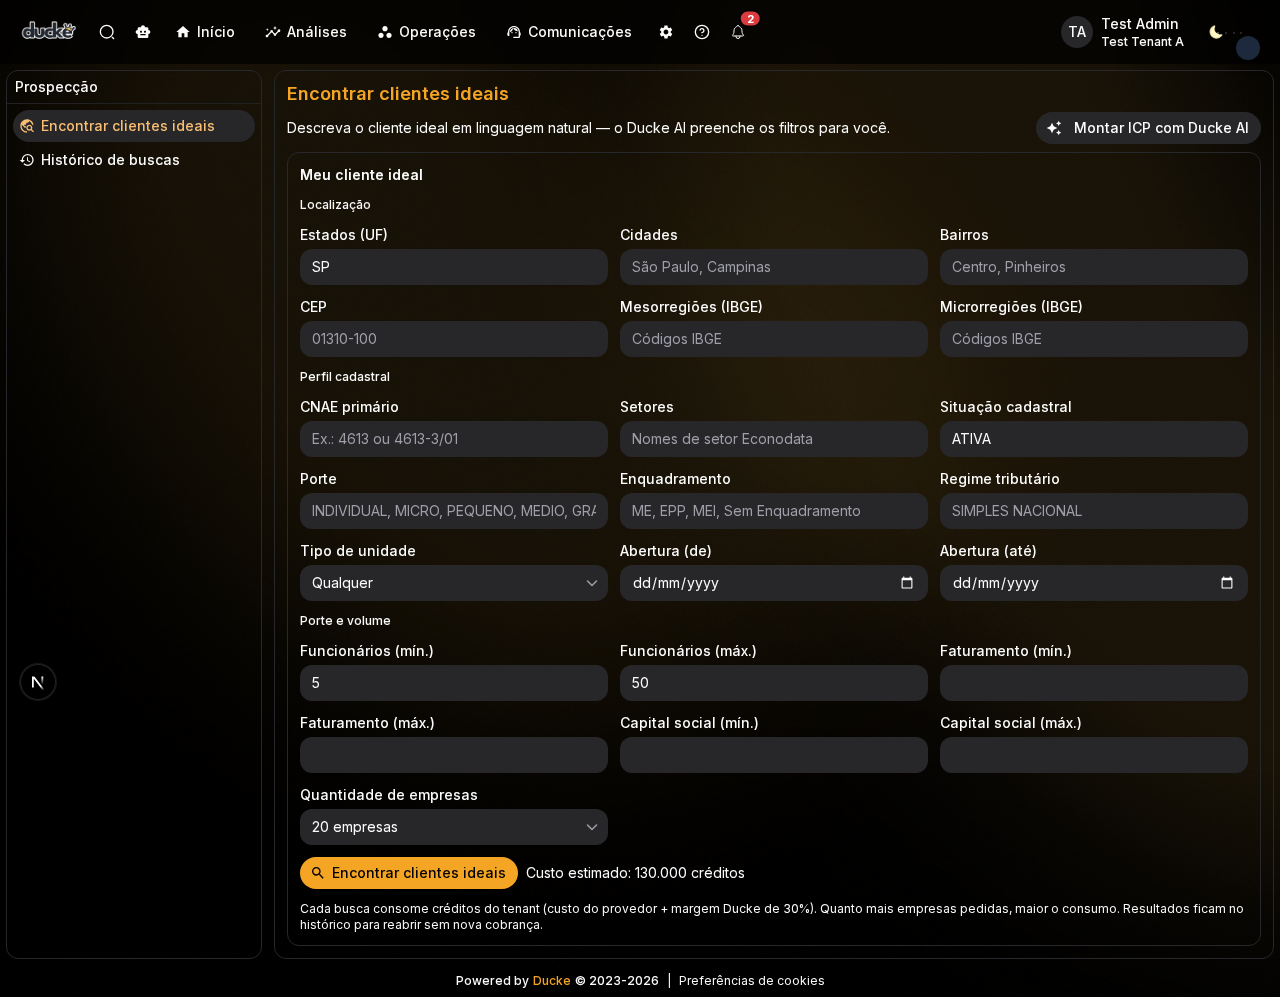
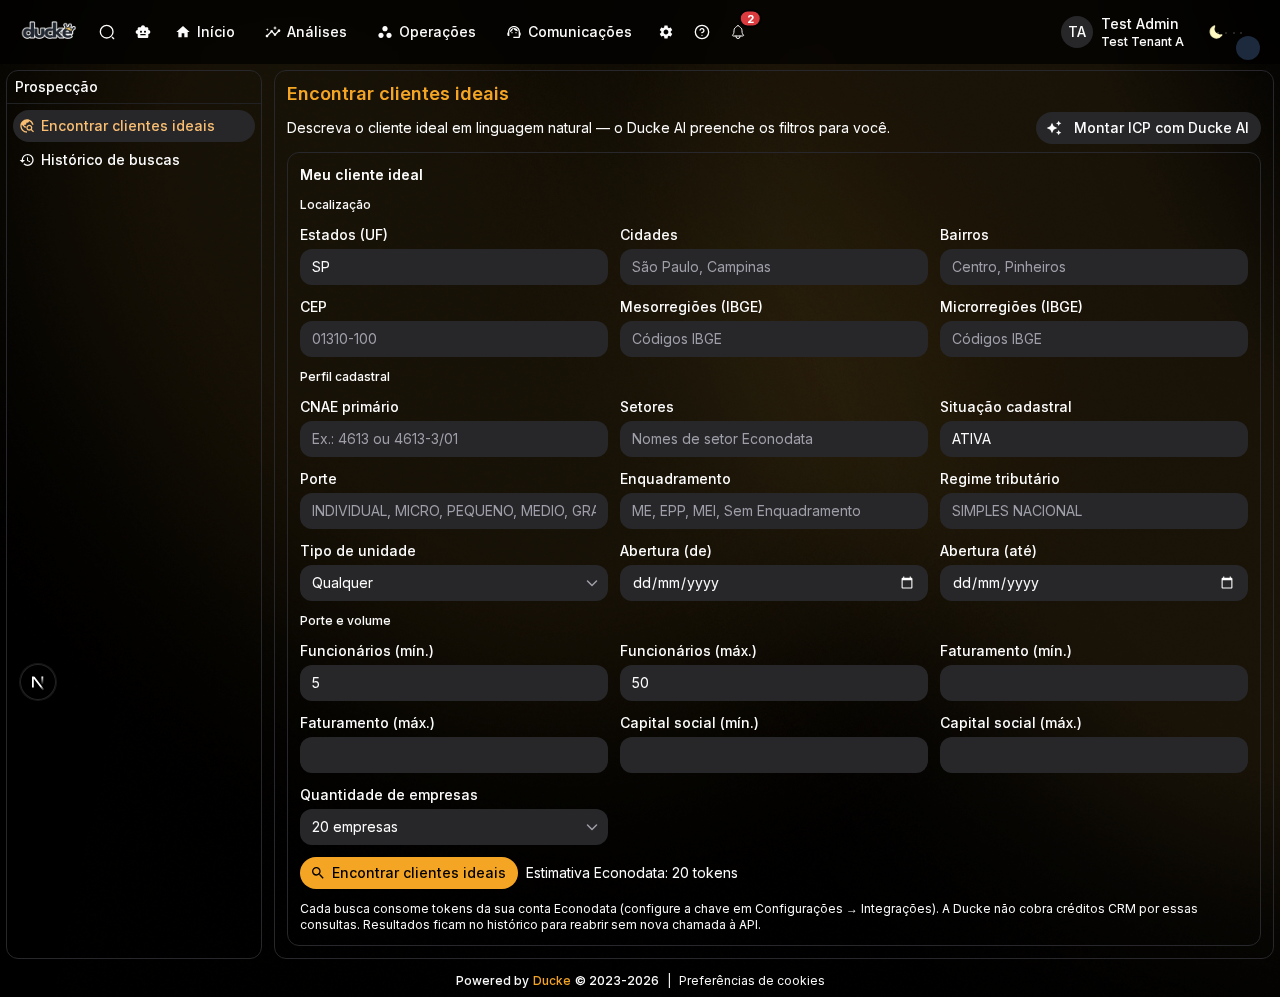
Add Integrations section to system configuration documentation and update manifest.json
- Introduced a new section for **Integrações** in the system configuration, detailing the process for connecting third-party accounts, specifically Econodata.
- Updated the **Operação** section to clarify the use of the Econodata API key and its implications for credit consumption.
- Enhanced the **Prospecção** section with prerequisites for using the Econodata API key and its integration with the search functionality.
- Added new image assets for the **Integrações** setup to improve visual guidance.
- Updated manifest.json to include the new integrations page and associated assets.

Changed region(s): [[0.25, 0.8706, 0.9688, 0.9328]]

diff --git a/app/10-configuracao-do-sistema/_meta.js b/app/10-configuracao-do-sistema/_meta.js
@@ -11,4 +11,5 @@ export default {
   '9-configuracao-de-acessos': 'Perfis de Acesso',
   '10-chaves-de-acesso-api': 'Chaves de Acesso API',
   '11-importacoes-de-planilha': 'Importações de Planilha',
+  '12-integracoes': 'Integrações',
 }
